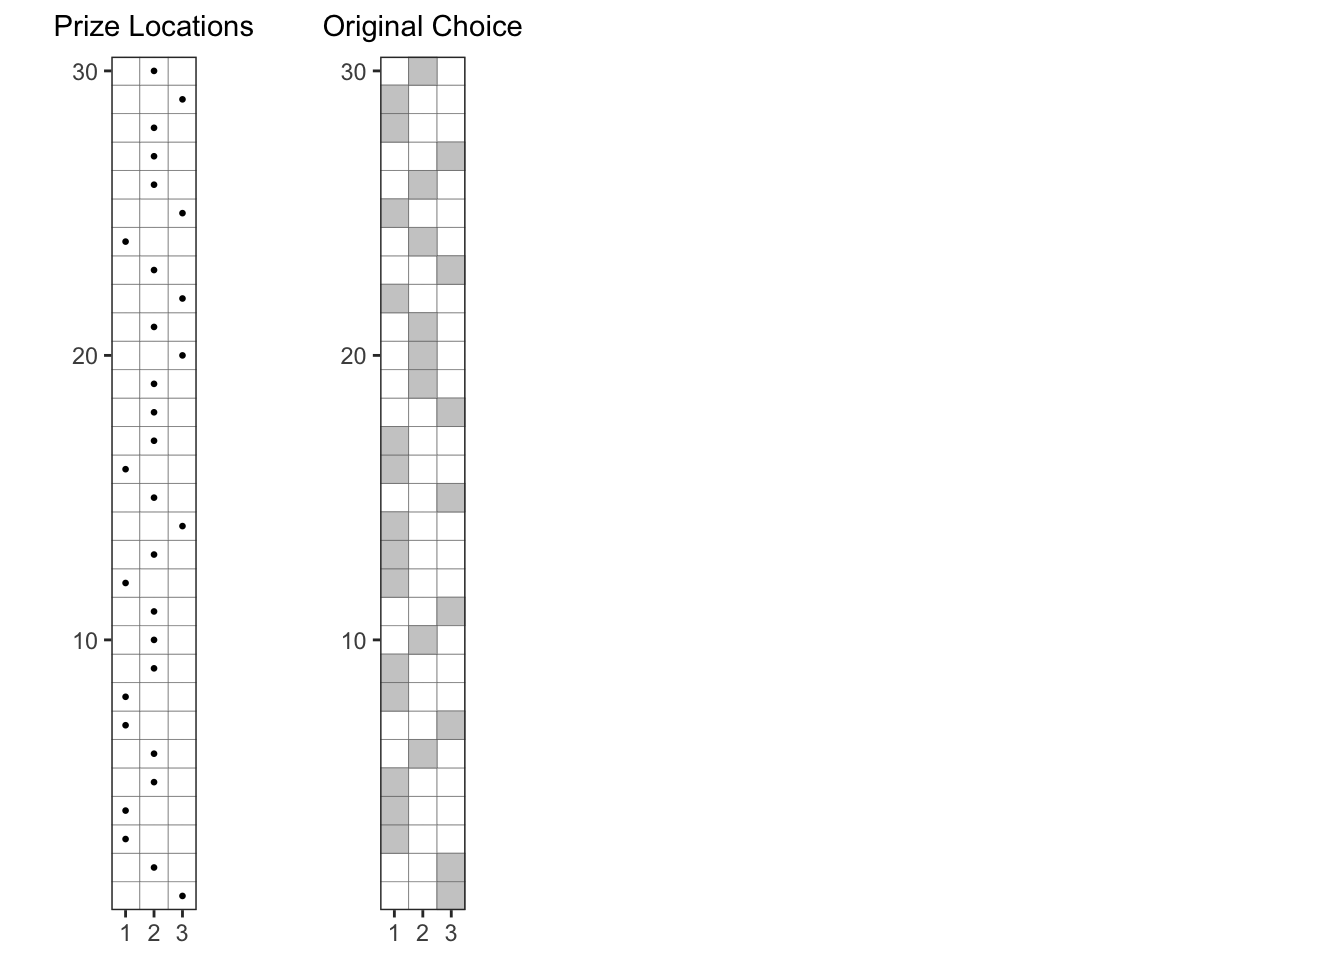
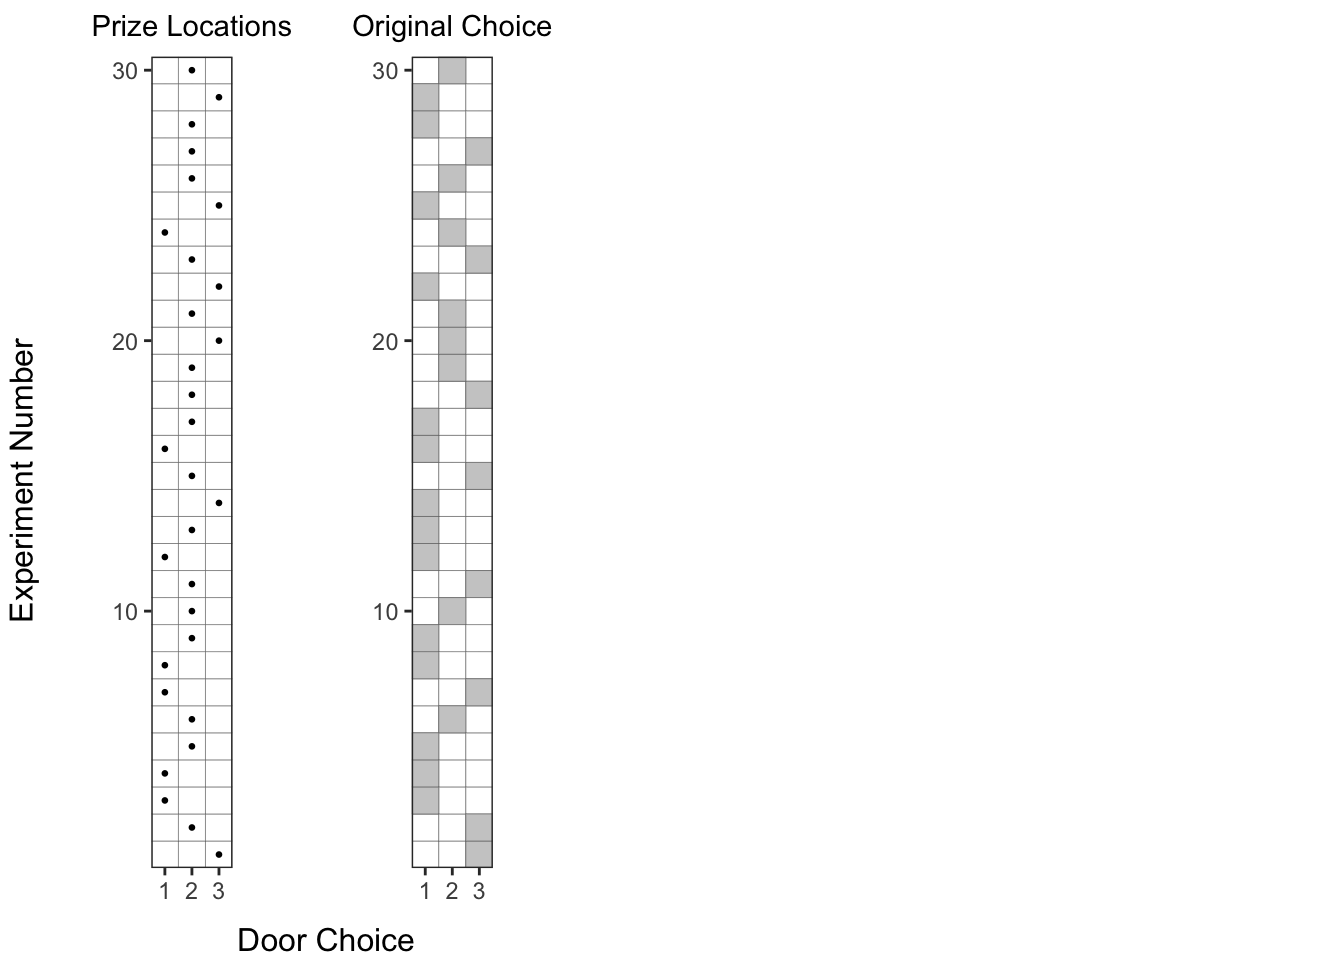
updating the monty-hall post again

Changed region(s): [[0.1875, 0.0, 0.4062, 1.0], [0.0312, 0.0, 0.2188, 0.9688], [0.0, 0.3438, 0.0312, 0.6562]]

diff --git a/content/post/2018-11-18-monty-hall-problem.html b/content/post/2018-11-18-monty-hall-problem.html
@@ -73,7 +73,11 @@ df_experiment_runs_long$Door &lt;- gsub(&#39;Door&#39;, &#39;&#39;, df_experimen
 p1 &lt;- p0 + geom_point(data = df_experiment_runs, aes(x = `Prize Location`), size = 0.5) + 
         labs(subtitle = &#39;Prize Locations&#39;)
 
-ggarrange(p1, NULL, NULL, NULL, NULL, nrow = 1, align = &#39;h&#39;)</code></pre>
+annotate_figure(
+  ggarrange(p1, NULL, NULL, NULL, NULL, nrow = 1, align = &#39;h&#39;),
+  left = text_grob(&quot;Experiment Number&quot;, rot = 90, size = 12),
+  bottom = text_grob(&quot;Door Choice&quot;, size = 12, hjust = 0, x = 0.05)
+)</code></pre>
 <p><img src="/post/2018-11-18-monty-hall-problem_files/figure-html/prize-location-1.png" width="672" /></p>
 </div>
 <div id="original-door-choice-chosen-at-random" class="section level4">
@@ -81,7 +85,11 @@ ggarrange(p1, NULL, NULL, NULL, NULL, nrow = 1, align = &#39;h&#39;)</code></pre
 <p>Then, let us show the original choice of the doors, denoted by gray square (◽), which are also shown at random.</p>
 <pre class="r"><code>p2 &lt;- p0 + geom_tile(data = df_experiment_runs, aes(x = `First Choice`), fill = &#39;gray80&#39;, color = &#39;gray40&#39;)+ 
         labs(subtitle = &#39;Original Choice&#39;)
-ggarrange(p1, p2, NULL, NULL, NULL, nrow = 1, align = &#39;h&#39;)</code></pre>
+annotate_figure(
+  ggarrange(p1, p2, NULL, NULL, NULL, nrow = 1, align = &#39;h&#39;),
+  left = text_grob(&quot;Experiment Number&quot;, rot = 90, size = 12),
+  bottom = text_grob(&quot;Door Choice&quot;, size = 12, hjust = 0, x = 0.15)
+)</code></pre>
 <p><img src="/post/2018-11-18-monty-hall-problem_files/figure-html/original-choice-1.png" width="672" /></p>
 </div>
 <div id="original-choice-combined-with-prize-locations" class="section level4">
@@ -92,7 +100,11 @@ ggarrange(p1, p2, NULL, NULL, NULL, nrow = 1, align = &#39;h&#39;)</code></pre>
 <pre class="r"><code>p3 &lt;- p2 + geom_point(data = df_experiment_runs, aes(x = `Prize Location`), size = 0.5) + 
         labs(subtitle = &#39;Original Choice\n+\nPrize Location&#39;)
 
-ggarrange(p1, p2, p3, NULL, NULL, nrow = 1, align = &#39;h&#39;)</code></pre>
+annotate_figure(
+  ggarrange(p1, p2, p3, NULL, NULL, nrow = 1, align = &#39;h&#39;),
+  left = text_grob(&quot;Experiment Number&quot;, rot = 90, size = 12),
+  bottom = text_grob(&quot;Door Choice&quot;, size = 12, hjust = 0, x = 0.25)
+)</code></pre>
 <p><img src="/post/2018-11-18-monty-hall-problem_files/figure-html/original-choice-with-prize-location-1.png" width="672" /></p>
 </div>
 <div id="eliminating-one-of-the-doors-without-the-prize" class="section level4">
@@ -100,7 +112,11 @@ ggarrange(p1, p2, p3, NULL, NULL, nrow = 1, align = &#39;h&#39;)</code></pre>
 <p>At this point the host would eliminate one of the doors that don’t contain the prize. We denote this eliminated choice by black square (◾).</p>
 <pre class="r"><code>p4 &lt;- p3 + geom_tile(data = df_experiment_runs, aes(x = `Eliminated Position`), fill = &#39;gray30&#39;, color = &#39;gray40&#39;) + 
         labs(subtitle = &#39;Original Choice\n+\nEliminated Choice&#39;)
-ggarrange(p1, p2, p3, p4, NULL, nrow = 1, align = &#39;h&#39;) </code></pre>
+annotate_figure(
+  ggarrange(p1, p2, p3, p4, NULL, nrow = 1, align = &#39;h&#39;),
+  left = text_grob(&quot;Experiment Number&quot;, rot = 90, size = 12),
+  bottom = text_grob(&quot;Door Choice&quot;, size = 12, hjust = 0, x = 0.35)
+)</code></pre>
 <p><img src="/post/2018-11-18-monty-hall-problem_files/figure-html/eliminated-positions-1.png" width="672" /></p>
 </div>
 <div id="considering-the-alternate-choice" class="section level4">
@@ -113,7 +129,11 @@ ggarrange(p1, p2, p3, p4, NULL, nrow = 1, align = &#39;h&#39;) </code></pre>
           geom_point(data = df_experiment_runs, aes(x = `Prize Location`), size = 0.5) + 
           labs(subtitle = &#39;Alternate Chocie\n+\nPrize Location&#39;)
 
-ggarrange(p1, p2, p3, p4, p5, nrow = 1, align = &#39;h&#39;)</code></pre>
+annotate_figure(
+  ggarrange(p1, p2, p3, p4, p5, nrow = 1, align = &#39;h&#39;),
+  left = text_grob(&quot;Experiment Number&quot;, rot = 90, size = 12),
+  bottom = text_grob(&quot;Door Choice&quot;, size = 12, hjust = 0, x = 0.45)
+)</code></pre>
 <p><img src="/post/2018-11-18-monty-hall-problem_files/figure-html/alternate-choice-1.png" width="672" /></p>
 <p><code>So, changing our choice after the elimination of one of the doors, improved the sucess probability by about 2x.</code></p>
 </div>
